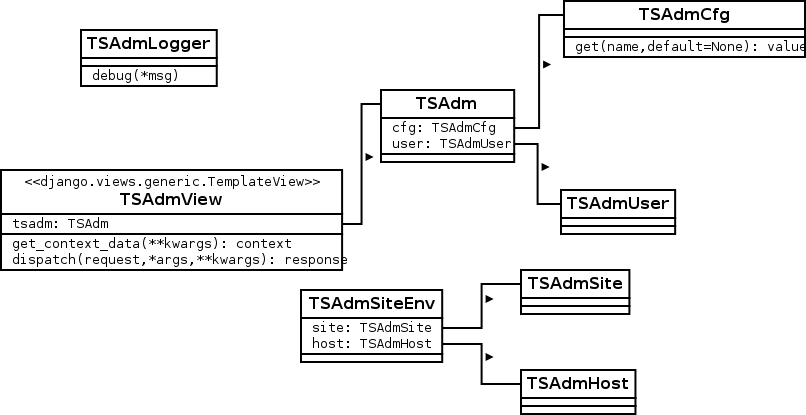
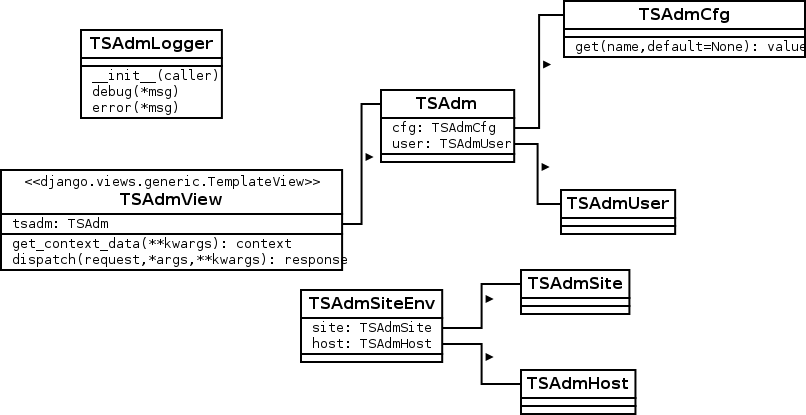
logger error method

Changed region(s): [[0.0931, 0.0578, 0.2792, 0.2892]]

diff --git a/src/tsadm/log.py b/src/tsadm/log.py
@@ -24,3 +24,6 @@ class TSAdmLogger:
 
     def debug(self, *msg):
         self._print(*msg)
+
+    def error(self, *msg):
+        self._print('ERROR:', *msg)
